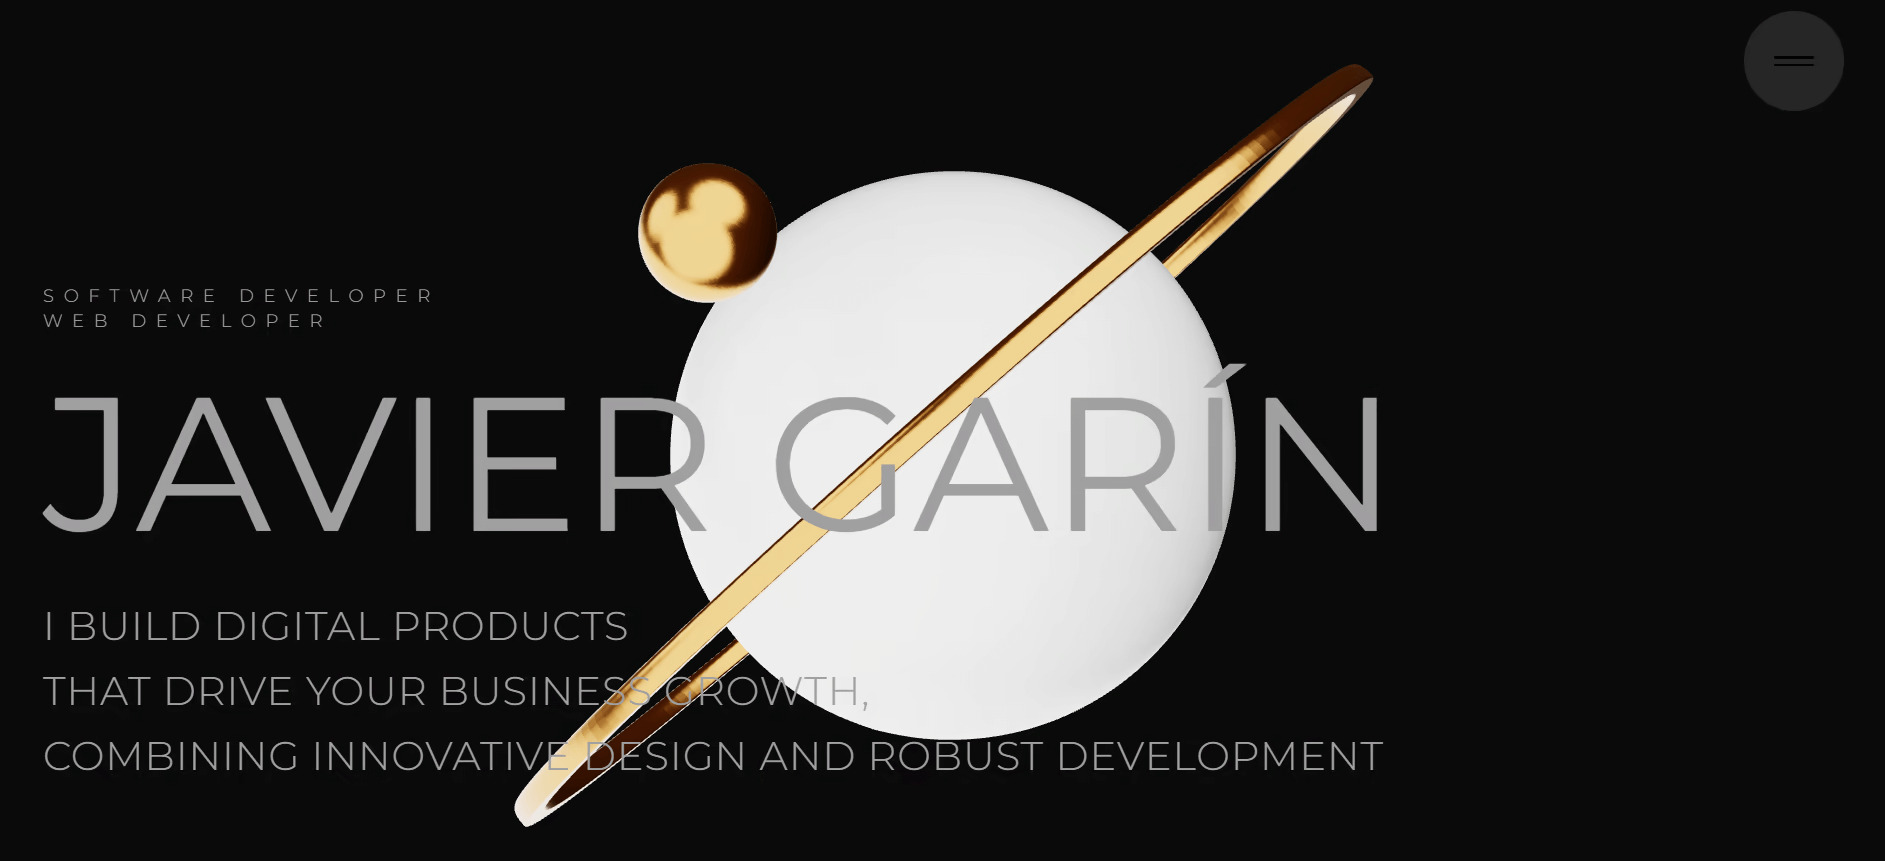
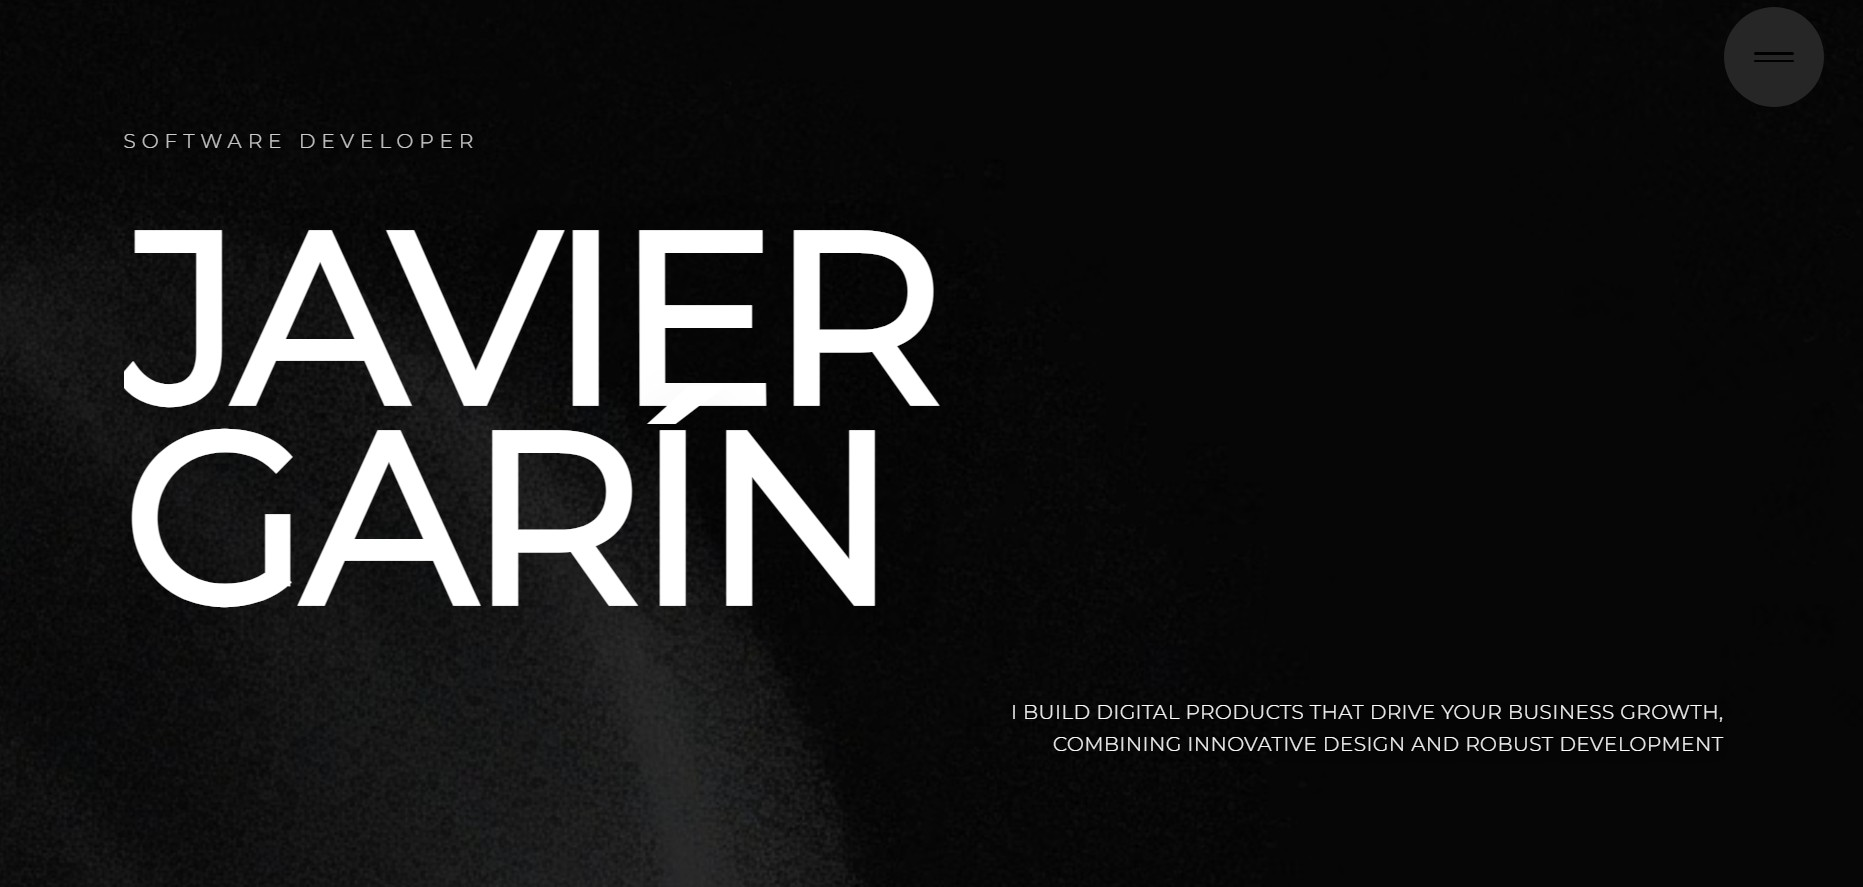
RFCT: update screenshot readme

diff --git a/README.md b/README.md
@@ -2,7 +2,7 @@
 
 This is a modern and interactive personal portfolio website built to showcase my skills, projects, and experience as a software developer. The site is designed to be visually engaging, fully responsive, and performant.
 
-![Portfolio Screenshot](./public/images/screenshot-portfolio-web.avif)
+![Portfolio Screenshot](./public/images/screenshot-portfolio-web.jpg)
 
 ## About The Project
 
